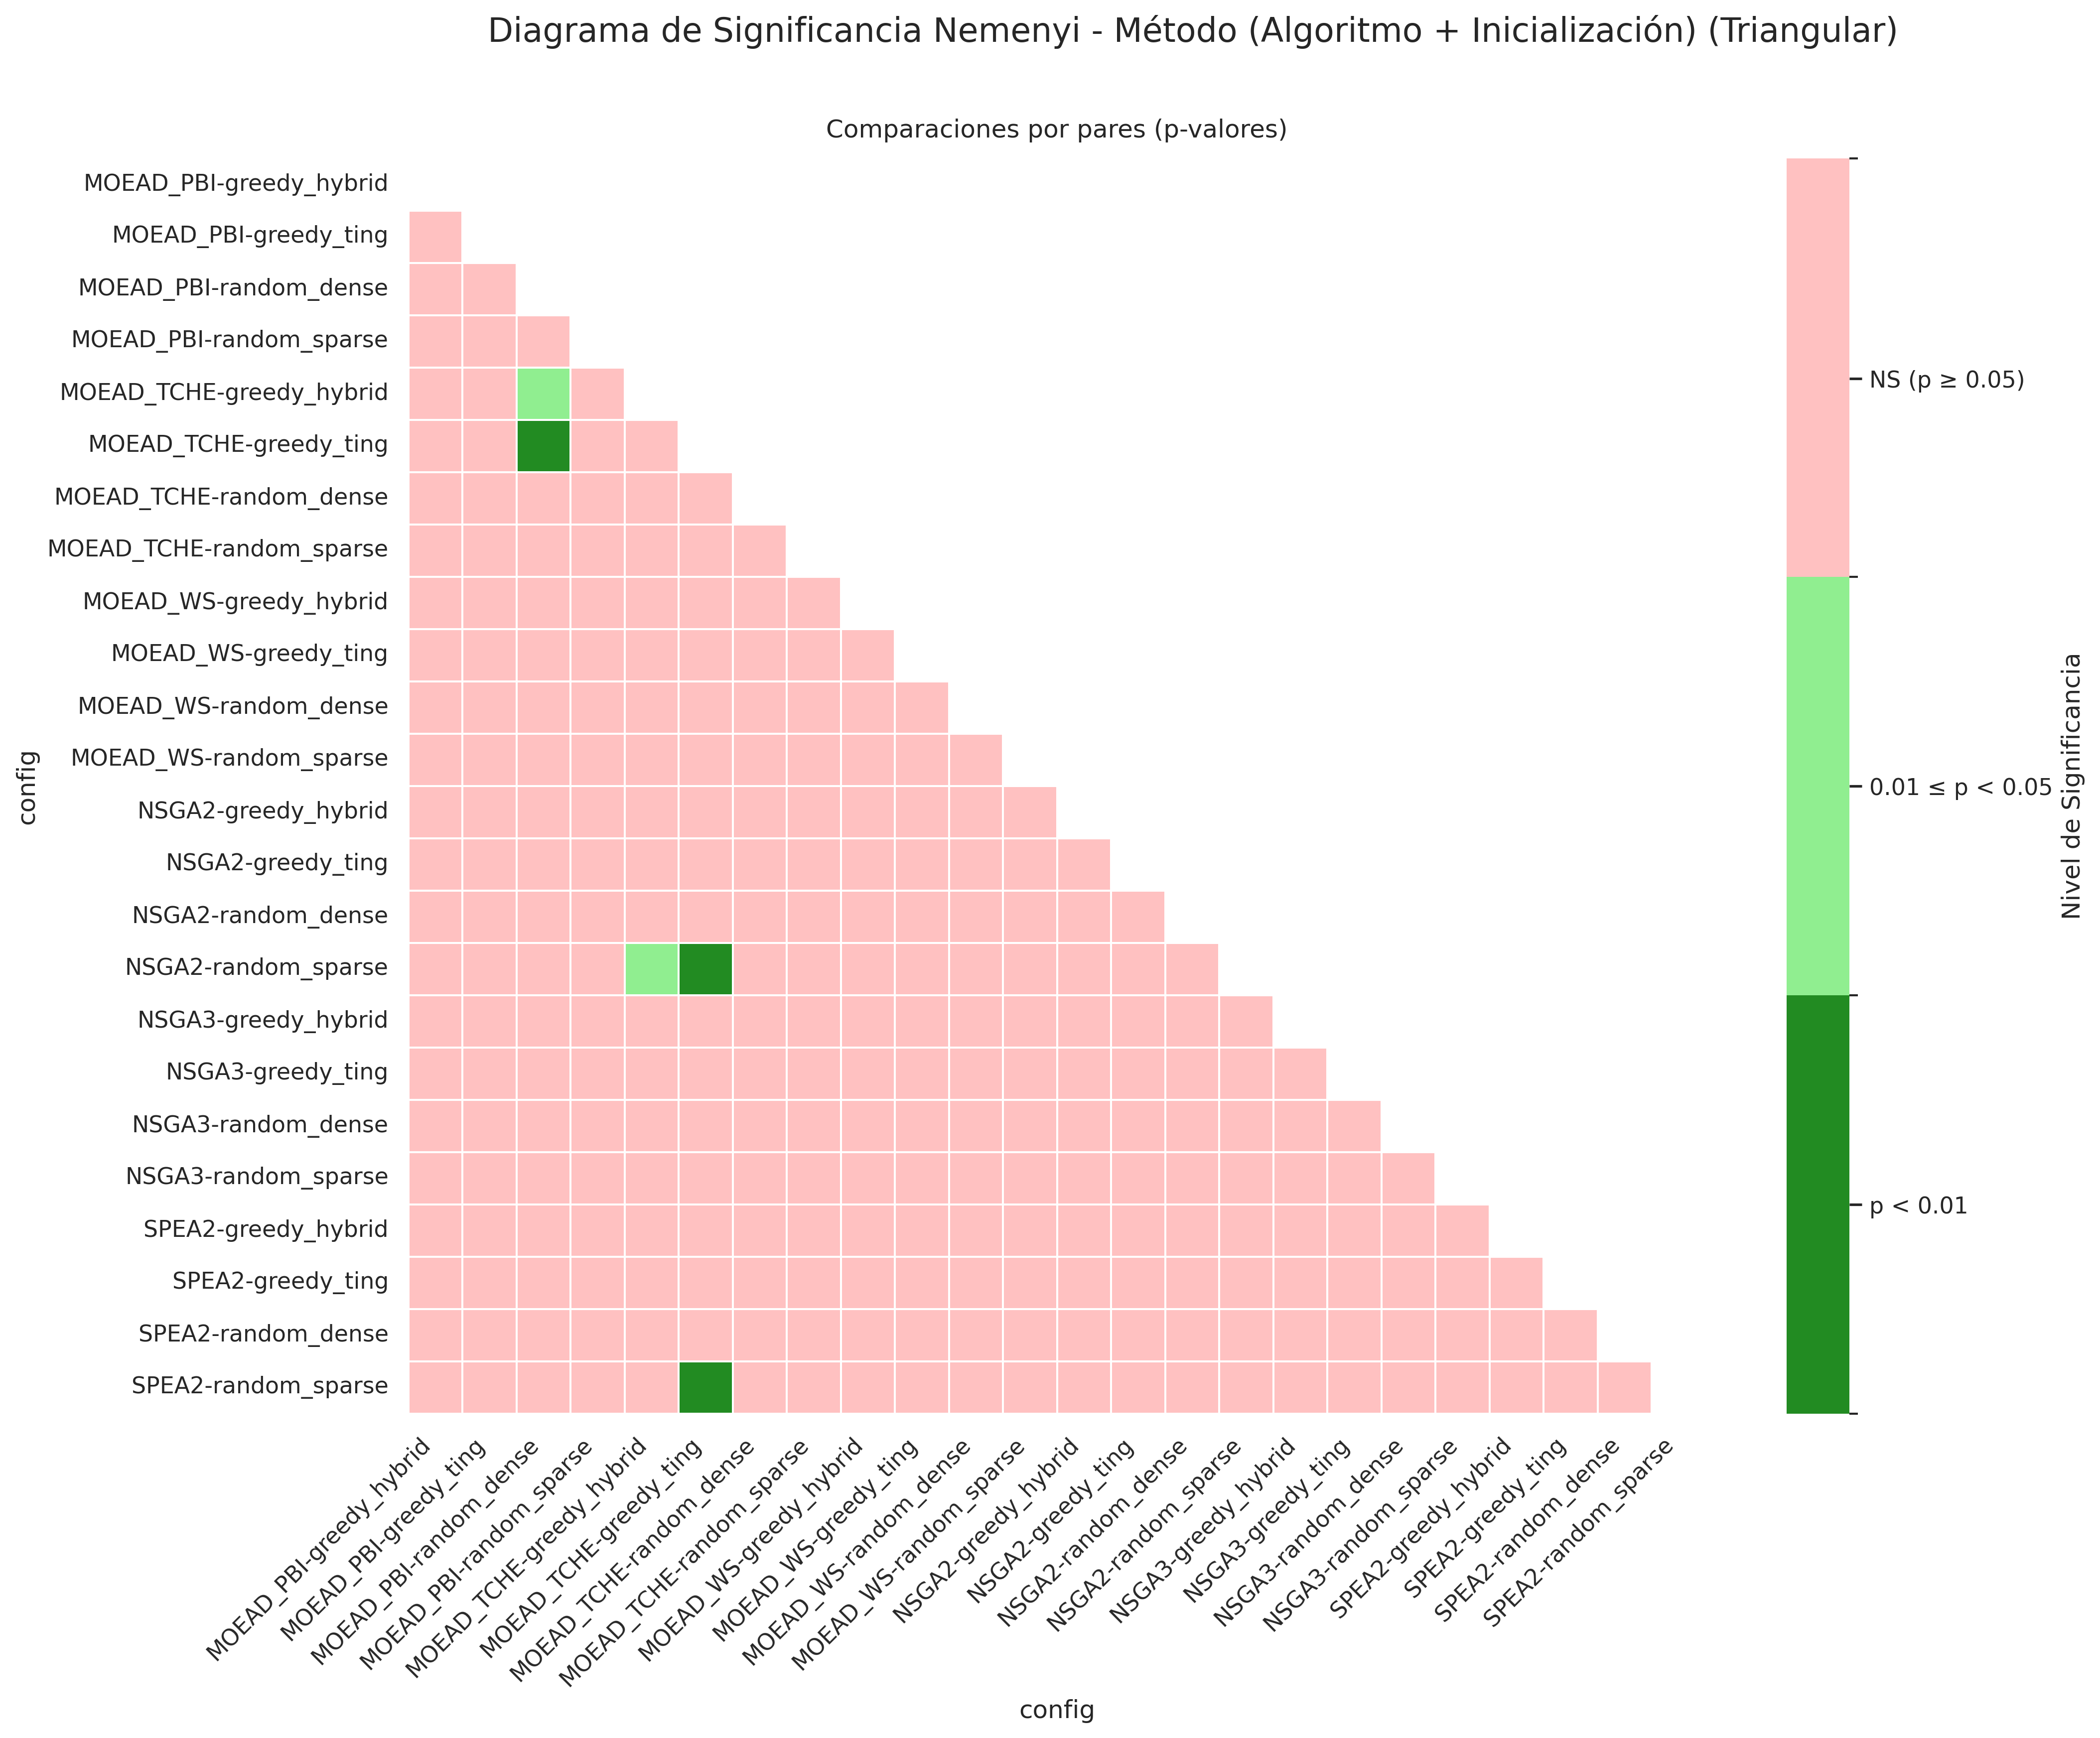
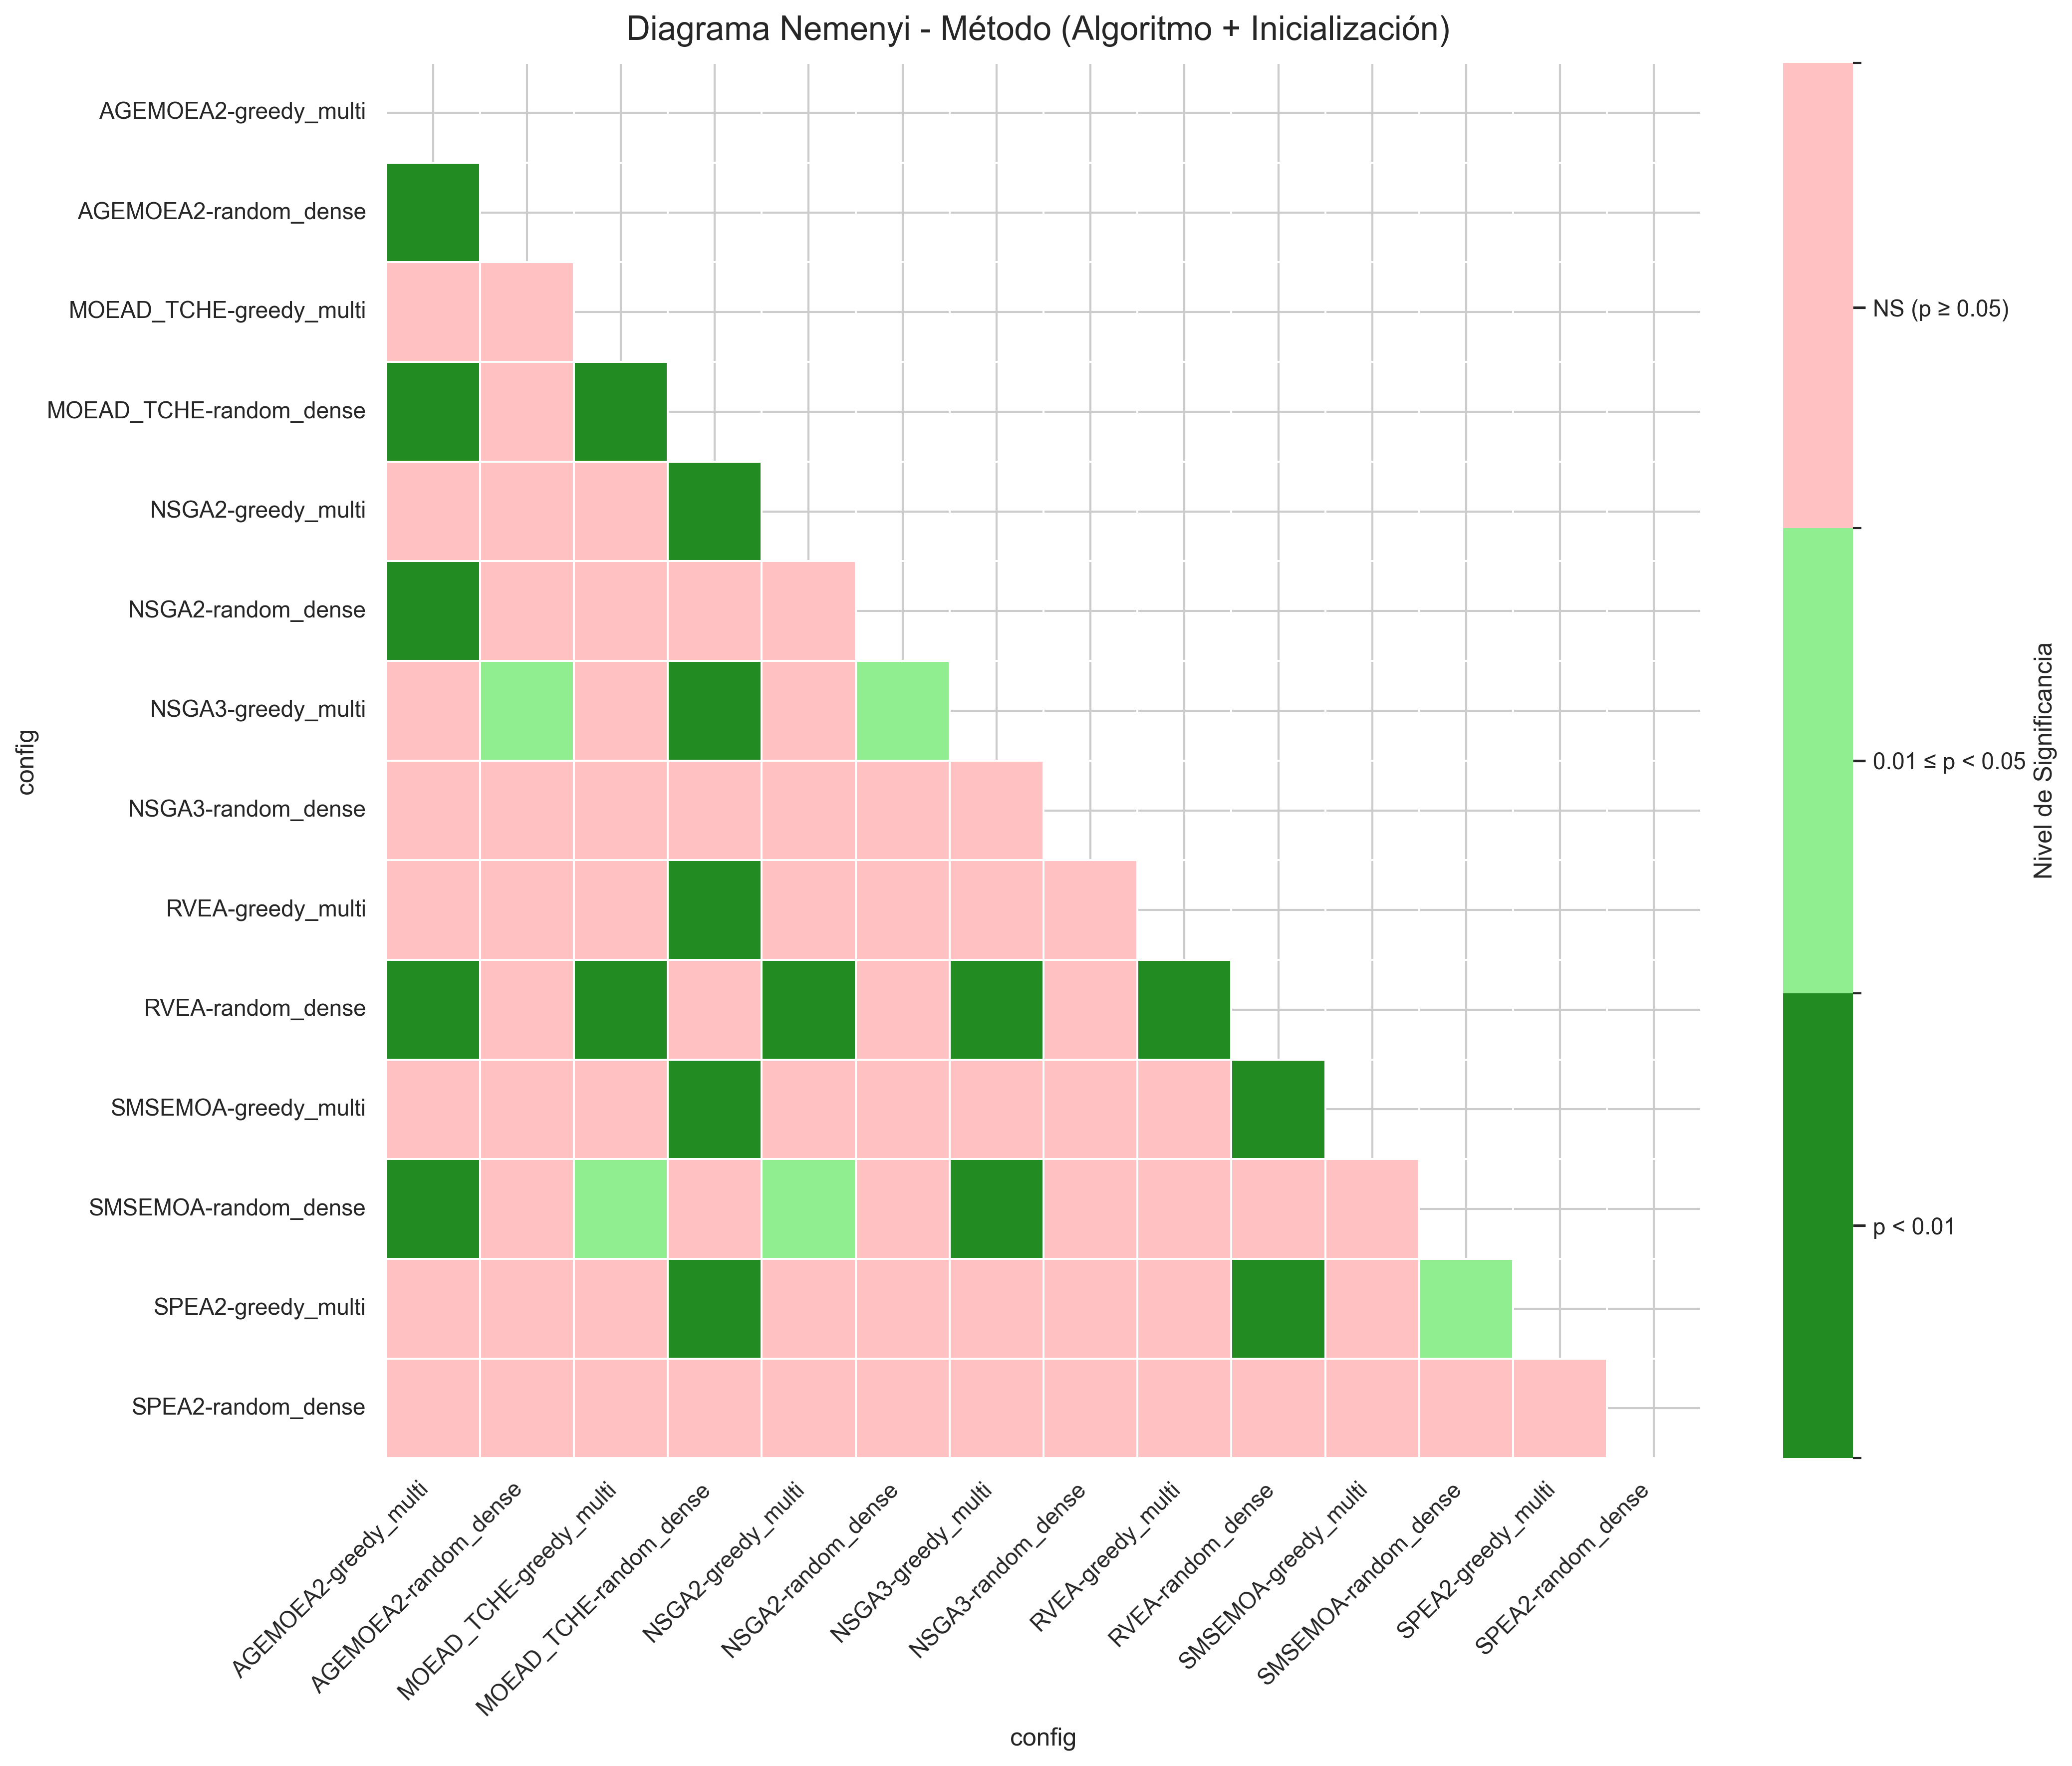
Readme

diff --git a/README.md b/README.md
@@ -10,8 +10,8 @@ Este repositorio contiene la implementación de un pipeline modular basado en al
 2. **[Marco Experimental](#sección-2-marco-experimental)**
    * Datasets (Hinds et al. y Sintéticos).
    * Suite de diagnóstico y caracterización de datos.
-   * Objetivos de optimización.
-   * Algoritmos e Inicializaciones.
+   * Objetivos de optimización
+   * Algoritmos e Inicializaciones
    * Parámetros configurables.
 3. **[Ejecución y Estructura del Proyecto](#sección-3-ejecución-y-estructura-del-proyecto)**
    * Dependencias e Instalación.
@@ -20,14 +20,18 @@ Este repositorio contiene la implementación de un pipeline modular basado en al
 4. **[Profundizamiento de Algoritmos y Motor Evolutivo](#sección-4-profundizamiento-de-algoritmos-y-motor-evolutivo)**
    * Implementación y Operadores de Variación.
    * Direcciones de Referencia (Das-Dennis).
+   * Operador de Reparación (ReparaciónSNP).
    * Motor de Paralelización y Gestión de Recursos.
    * Gestión de Escalas y Normalización.
 5. **[Validación Estadística Rigurosa](#sección-5-validación-estadística-rigurosa)**
-   * Test de Friedman.
-   * Análisis Post-hoc de Nemenyi.
+   * Test de Friedman y Kruskal-Wallis.
+   * Análisis Post-hoc (Nemenyi y Dunn).
 6. **[Diccionario de Métricas Técnicas y Supra-métricas](#sección-6-diccionario-de-métricas-técnicas-y-supra-métricas)**
-   * Métricas de Rendimiento Analizadas.
+   * Métricas de Rendimiento Analizadas (IGD+, GD+).
    * La Supra-métrica Analítica: Average Rank.
+7. **[Multi-Criteria Decision Making (MCDM)](#sección-7-multi-criteria-decision-making-mcdm)**
+   * Criterios de Selección Técnica (Knee Point, ASF).
+   * Visualización de Decisiones (Radar y Pétalos).
 
 ---
 
@@ -91,22 +95,27 @@ La obtención del dataset de Hinds et al. (2005) fue un proceso de "arqueología
 
 En resumen, el dataset no fue descargado de una base de datos genómica general, sino directamente del **paquete de replicación oficial** de los autores originales, garantizando la integridad absoluta de las comparativas de *benchmarking*.
 
-#### Datasets Sintéticos - Simulación Controlada
+#### Datasets Sintéticos - Simulación de Bloques LD
 
-Los datos sintéticos se generan mediante procesos estocásticos para evaluar la robustez y escalabilidad. En las pruebas realizadas (modo `fast`), se suele configurar una matriz de **1032 SNPs x 40 haplotipos**.
+Los datos sintéticos se generan mediante un modelo estocástico avanzado diseñado para evaluar la robustez y escalabilidad de los algoritmos bajo condiciones controladas. El motor de generación ha sido actualizado para simular una arquitectura genética más realista:
 
-A diferencia de la rigidez de los datos biológicos, el generador sintético permite diseñar escenarios experimentales a medida, facilitando el análisis del comportamiento de los algoritmos bajo condiciones controladas de diversidad y ruido. Esta flexibilidad se gestiona a través de los parámetros tunables en `user_config.ini`:
+* **Modelo de Cadena LD**: Los SNPs se generan secuencialmente siguiendo un modelo de cadena acumulativa. Cada marcador se deriva de su predecesor con una probabilidad de inversión (*flip*) que garantiza una correlación de ligamiento coherente.
+* **Zonas de Transición Gradual**: Se han implementado regiones de transición entre bloques de ligamiento. En estas zonas, la probabilidad de mutación se interpola suavemente hacia 0.5, simulando los puntos de recombinación biológica donde el ligamiento decae.
+* **Diversidad Garantizada**: El sistema aplica un proceso iterativo de "reparación de diversidad" para asegurar que la distancia genotípica entre cualquier par de haplotipos supere un umbral mínimo (`dif_min_pares_sintetico`), evitando poblaciones genéticamente redundantes.
 
-* `num_bloques`: Define el número de bloques genómicos en los que se divide la secuencia, permitiendo simular distintos grados de fragmentación del ligamiento.
-* `n_snps`: Determina la escala global de la simulación (columnas de la matriz). *(El número de haplotipos es fijo por fuente de datos: 48 en Hinds y 40 en synthetic.)*
-* `prob_flip_sintetico`: Determina la probabilidad de inversión de bits (mutación) por cada SNP, controlando el nivel de ruido y la imperfección del ligamiento.
-* `dif_min_pares_sintetico`: Establece la distancia Hamming mínima exigida entre pares de haplotipos para garantizar la divergencia biológica.
-* `intentos_max_sintetico`: Especifica el número máximo de iteraciones para satisfacer las restricciones de diversidad impuestas.
+Esta flexibilidad se gestiona a través de los parámetros en `user_config.ini`:
 
-![Mapa de Calor de Haplotipos Sintéticos](readme_assets/heatmap_haplotipos_fast.png)
-*Figura 5: Mapa de calor de la estructura haplotípica sintética, donde se observa la regularidad impuesta por el modelo de simulación.*
+* `n_snps` / `n_haplotipos`: Dimensiones de la matriz.
+* `tam_bloque_sintetico`: Tamaño promedio de los bloques de ligamiento.
+* `prob_flip_sintetico`: Probabilidad base de mutación intra-bloque.
+* `ancho_transicion`: Anchura de la zona de recombinación entre bloques.
+* `dif_min_pares_sintetico`: Distancia Hamming mínima exigida entre pares.
 
-La distribución de distancias en datos sintéticos muestra extremos más polarizados (P33=145.0, P66=887.0), lo que resulta ideal para evaluar el rendimiento de los algoritmos en escenarios de alta divergencia genética inducida.
+![Estructura de Bloques Sintética](readme_assets/bloques_synthetic.png)
+*Figura 5: Visualización de los bloques de ligamiento y la matriz de haplotipos generada estocásticamente con el nuevo modelo.*
+
+![Mapa de Calor Sintético](readme_assets/heatmap_synthetic.png)
+*Figura 6: Mapa de calor de la estructura haplotípica sintética, donde se observa la coherencia estructural inducida por el modelo de cadenas LD.*
 
 ### Suite de Diagnóstico y Caracterización
 
@@ -205,14 +214,14 @@ En este modo, las métricas biológicas se calculan de forma **proporcional** a 
 
 Las fórmulas resultantes para los objetivos en modo proporcional son:
 
-*   **Tolerancia Proporcional ($f_2^{prop}$):** 
-    $$f_2^{prop} = \frac{\min(\text{cobertura\_mínima}, \text{cap\_tolerancia})}{k}$$
-*   **Distancia Hamming Proporcional ($f_3^{prop}$):** 
-    $$f_3^{prop} = -\left( \frac{\sum_{i=1}^{N_{pares}} H_i}{N_{pares} \cdot k} \right)$$
-*   **Disimilitud Proporcional ($f_4^{prop}$):**
-    $$f_4^{prop} = \frac{\sigma^2(H)}{k^2}$$
+* **Tolerancia Proporcional ($f_2^{prop}$):** 
+  $$f_2^{prop} = \frac{\min(\text{cobertura mínima}, \text{cap tolerancia})}{k}$$
+* **Distancia Hamming Proporcional ($f_3^{prop}$):** 
+  $$f_3^{prop} = - \left( \frac{\sum_{i=1}^{N_{pares}} H_i}{N_{pares} \cdot k} \right)$$
+* **Disimilitud Proporcional ($f_4^{prop}$):**
+  $$f_4^{prop} = \frac{\sigma^{2}(H)}{k^2}$$
 
-*Donde $k$ es el número de SNPs seleccionados, $H_i$ la distancia de Hamming del par $i$, y $\sigma^2(H)$ la varianza de las distancias entre todos los pares.*
+*Donde $k$ es el número de SNPs seleccionados, $H_i$ la distancia de Hamming del par $i$, $N_{pares}$ el número total de pares de haplotipos y $\sigma^2(H)$ la varianza de las distancias.*
 
 ### Algoritmos e Inicializaciones
 
@@ -231,7 +240,6 @@ El sistema implementa un entorno comparativo que evalúa la sinergia entre difer
 
 * **Estrategias de Inicialización**:
   
-  * `random_sparse`: Inicialización estocástica centrada en la **eficiencia y compacidad** ($P_{bit} \approx 70 / N_{snps}$).
   * `random_dense`: Muestreo aleatorio estándar (probabilidad 0.5 por bit). Ideal para evaluar la capacidad de "poda" de los algoritmos.
   * `greedy_multi`: Inicialización de **cobertura múltiple progresiva**. Distribuye objetivos de redundancia biológica en la población para asegurar que el frente de Pareto esté poblado desde el inicio con soluciones robustas.
   * `greedy_holistic`: La estrategia más avanzada del sistema. Utiliza un enfoque de **5 niveles (Tiers)**:
@@ -366,7 +374,7 @@ python -m snp_tag.main --mode [MODO] --data-source [FUENTE]
 * `--data-source` (`-d`): Especifica el dataset objetivo.
   * `hinds2005`: Utiliza el dataset biológico real de Hinds et al. (1032 SNPs).
   * `synthetic`: Genera un dataset sintético basado en los parámetros de simulación.
-* **Interfaz de Línea de Comandos (CLI) Premium**: El sistema ofrece un dashboard dinámico en terminal que reporta el progreso en tiempo real. Además, utiliza secuencias **OSC 8** para generar hipervínculos clicables directamente en la terminal, permitiendo abrir los reportes CSV y figuras PDF de forma instantánea al finalizar el experimento.
+* **Interfaz de Línea de Comandos (CLI)**: El sistema ofrece un dashboard dinámico en terminal que reporta el progreso en tiempo real. Además, utiliza secuencias **OSC 8** para generar hipervínculos clicables directamente en la terminal, permitiendo abrir los reportes CSV y figuras PDF de forma instantánea al finalizar el experimento.
 
 ### Estructura del Código
 
@@ -407,9 +415,9 @@ El motor utiliza el método de **Das-Dennis** para distribuir puntos de referenc
 
 Para garantizar la integridad del proceso evolutivo y evitar soluciones degeneradas, el sistema implementa un **Operador de Reparación** personalizado. Este operador actúa inmediatamente después de las fases de cruce y mutación:
 
-*   **Detección de Individuos Vacíos**: Intercepta cualquier solución que, tras la variación genética, haya quedado con cero SNPs seleccionados ($k=0$).
-*   **Activación Aleatoria**: En caso de detectar un individuo vacío, el operador activa automáticamente un SNP aleatorio de la secuencia genómica.
-*   **Propósito**: Esta mecánica asegura que cada individuo en la población represente un fenotipo válido con al menos una mínima representación biológica. Además, previene errores matemáticos (divisiones por cero) en el cálculo de métricas proporcionales y mantiene la presión selectiva sobre soluciones factibles.
+* **Detección de Individuos Vacíos**: Intercepta cualquier solución que, tras la variación genética, haya quedado con cero SNPs seleccionados ($k=0$).
+* **Activación Aleatoria**: En caso de detectar un individuo vacío, el operador activa automáticamente un SNP aleatorio de la secuencia genómica.
+* **Propósito**: Esta mecánica asegura que cada individuo en la población represente un fenotipo válido con al menos una mínima representación biológica. Además, previene errores matemáticos (divisiones por cero) en el cálculo de métricas proporcionales y mantiene la presión selectiva sobre soluciones factibles.
 
 ### Motor de Paralelización y Gestión de Recursos
 
@@ -484,13 +492,14 @@ El sistema evalúa el **Test de Friedman** para comparativas globales de algorit
 ### 5.2 Análisis Post-hoc (Nemenyi y Dunn)
 
 Si se detecta significancia, el sistema ejecuta automáticamente:
+
 * **Test de Nemenyi**: Para identificar grupos de algoritmos con rendimiento equivalente en el ranking global.
 * **Test de Dunn**: Para realizar comparaciones pareadas profundas sobre métricas individuales (como Hypervolume o IGD+).
 
 El resultado se visualiza mediante *Heatmaps estadísticos* y diagramas de Diferencia Crítica (CD).
 
 ![Heatmap Nemenyi](readme_assets/heatmap_nemenyi.png)
-*Figura 6: Mapa de calor de significancia. Nemenyi desvela los grupos de algoritmos que, pese a tener medias dispares, son empíricamente equivalentes frente a las fluctuaciones probabilísticas del TSSP.*
+*Figura 7: Mapa de calor de significancia. Nemenyi desvela los grupos de algoritmos que, pese a tener medias dispares, son empíricamente equivalentes frente a las fluctuaciones probabilísticas del TSSP.*
 
 ---
 
@@ -509,7 +518,7 @@ Para diseccionar rigurosamente los frentes de Pareto resultantes, el sistema lo 
 
 ![Heatmap Comparativa](readme_assets/heatmap_comparativa.png)
 
-*Figura 7: Mapa de calor de perfiles algorítmicos. Las zonas de color oscuro indican mejores posiciones (rankings bajos) para cada métrica individual.*
+*Figura 8: Mapa de calor de perfiles algorítmicos. Las zonas de color oscuro indican mejores posiciones (rankings bajos) para cada métrica individual.*
 
 ### La Supra-métrica Analítica: Average Rank
 
@@ -518,7 +527,7 @@ Puesto que en los ecosistemas *Many-Objective* rara vez un algoritmo domina simu
 El **Average Rank** procesa las posiciones relativas (1º, 2º, 3º...) que obtiene cada configuración en las 7 métricas individuales y genera una media global ponderada. Este agregador es indispensable para dictaminar conclusiones cuando las varianzas son altísimas y los test de Friedman dictaminan empates múltiples, permitiendo coronar a los algoritmos con el comportamiento histórico más estable.
 
 ![Ranking Global](readme_assets/rangos_promedio.png)
-*Figura 8: Visualización del Ranking Promedio consolidado. Se observa la superioridad de las variantes basadas en AGEMOEA-II y NSGA-III.*
+*Figura 9: Visualización del Ranking Promedio consolidado. Se observa la superioridad de las variantes basadas en AGEMOEA-II y NSGA-III.*
 
 ---
 
@@ -528,15 +537,18 @@ Dado que los frentes de Pareto pueden contener cientos de soluciones, el sistema
 
 ### Criterios de Selección Técnica
 
-1.  **Knee Point (Punto de Inflexión)**: Identifica la solución con la curvatura máxima en el frente. Es el punto donde una mejora marginal en un objetivo requeriría un sacrificio desproporcionado en los demás.
-2.  **Pseudo-Weights**: Calcula la importancia relativa de cada solución basándose en su posición normalizada en el espacio objetivo, permitiendo elegir soluciones con perfiles específicos (ej. máxima compacidad).
-3.  **ASF (Achievement Scalarization Function)**: Minimiza la distancia hacia un punto de referencia ideal, localizando la solución de compromiso matemáticamente más equilibrada.
+1. **Knee Point (Punto de Inflexión)**: Identifica la solución con la curvatura máxima en el frente. Es el punto donde una mejora marginal en un objetivo requeriría un sacrificio desproporcionado en los demás.
+2. **Pseudo-Weights**: Calcula la importancia relativa de cada solución basándose en su posición normalizada en el espacio objetivo, permitiendo elegir soluciones con perfiles específicos (ej. máxima compacidad).
+3. **ASF (Achievement Scalarization Function)**: Minimiza la distancia hacia un punto de referencia ideal, localizando la solución de compromiso matemáticamente más equilibrada.
 
 ### Visualización de Decisiones
 
-*   **Diagramas de Radar (Spider Charts)**: Permiten comparar el perfil funcional de las mejores soluciones en las 4 dimensiones biológicas simultáneamente.
-*   **Diagramas de Pétalos**: Representación visual de la magnitud de cada objetivo, facilitando la identificación rápida de fortalezas y debilidades.
-*   **Scatter Plots MCDM**: Visualización 2D/3D del frente resaltando los Knee points y las soluciones ASF.
+* **Diagramas de Radar (Spider Charts)**: Permiten comparar el perfil funcional de las mejores soluciones en las 4 dimensiones biológicas simultáneamente.
+* **Diagramas de Pétalos**: Representación visual de la magnitud de cada objetivo, facilitando la identificación rápida de fortalezas y debilidades.
+* **Scatter Plots MCDM**: Visualización 2D/3D del frente resaltando los Knee points y las soluciones ASF.
 
 ![MCDM Radar](readme_assets/test_radar.png)
-*Figura 9: Ejemplo de diagrama de radar comparando diferentes soluciones de compromiso.*
+*Figura 10: Ejemplo de diagrama de radar comparando diferentes soluciones de compromiso.*
+
+![MCDM Pétalos](readme_assets/test_petal.png)
+*Figura 11: Representación en pétalos de una solución seleccionada, mostrando el balance de objetivos.*